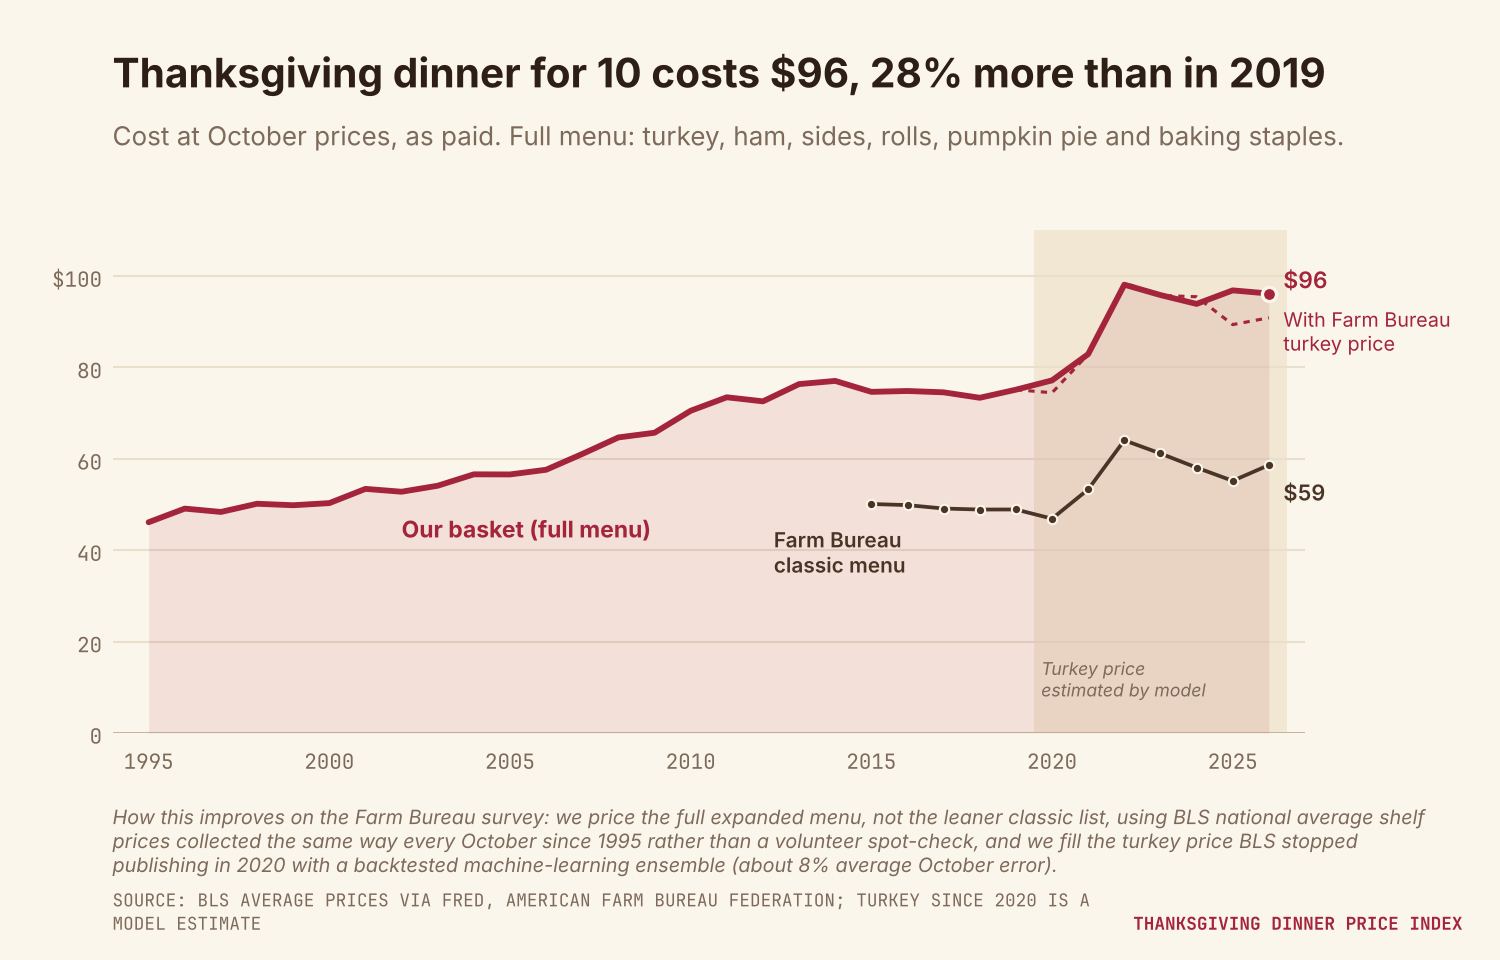
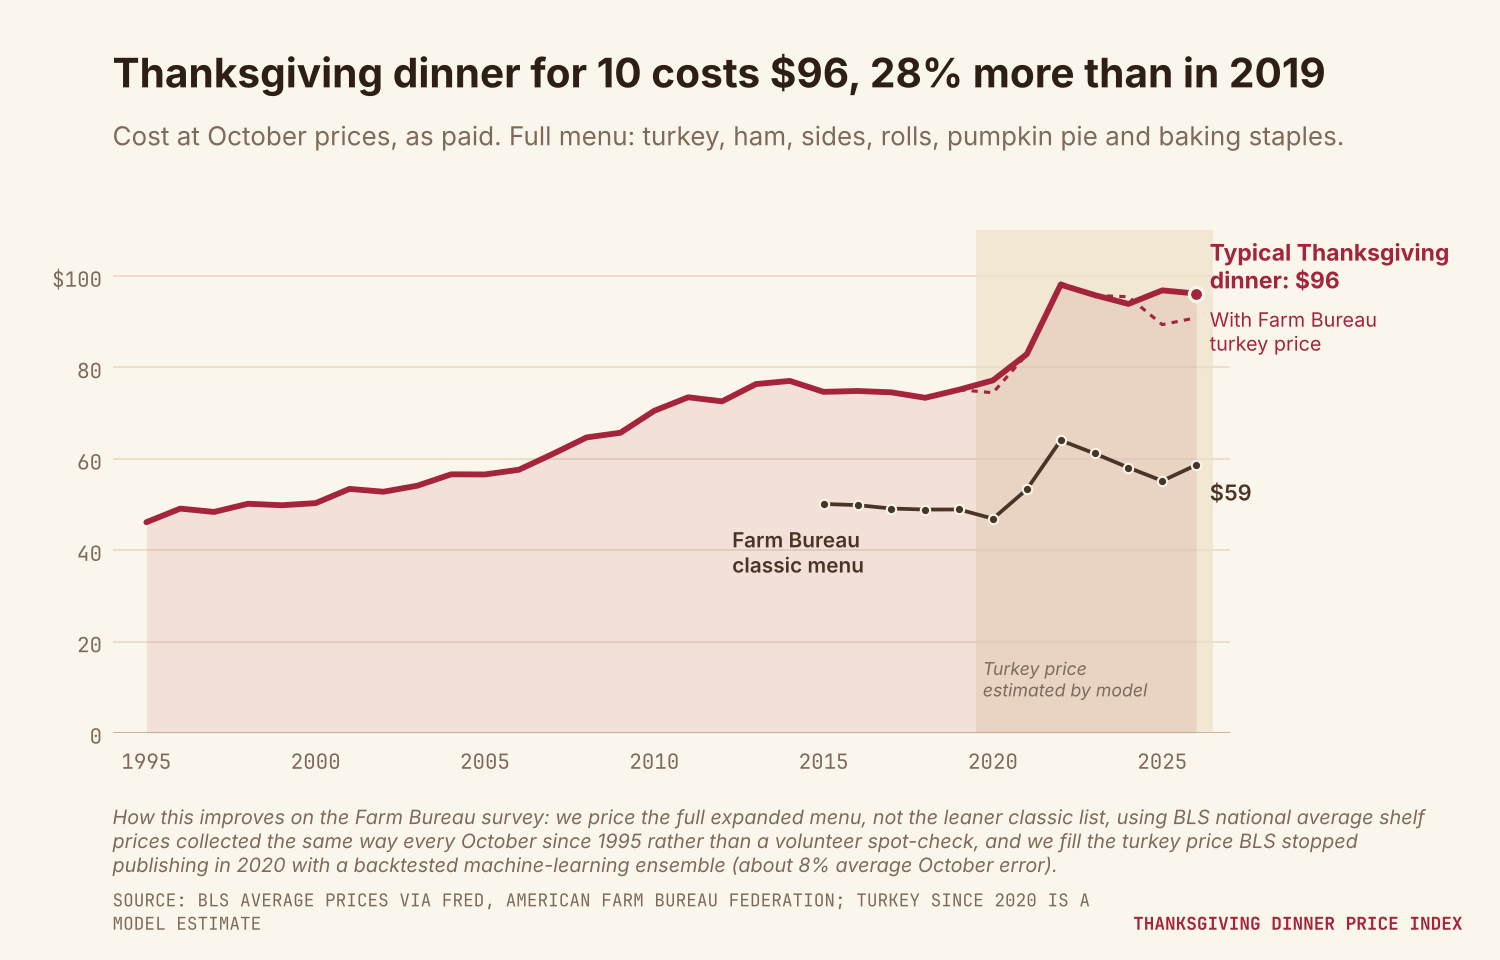
Chart 1: label the line 'Typical Thanksgiving dinner' at its right end
Claude-Session: https://claude.ai/code/session_015UrztArHpAPPRd1ooHHwA1

diff --git a/build_index.py b/build_index.py
@@ -207,6 +207,7 @@ SRC_BLS = "BLS average prices via FRED, American Farm Bureau Federation"
 # 1. Cost as paid, with the Farm Bureau benchmark (comparison with overall prices is chart 2)
 FLOOR = 0
 fig, ax = cs.figure()
+fig.subplots_adjust(right=0.82)
 ax.axvspan(2019.5, latest + 0.5, color=cs.SHADE, zorder=0, lw=0)
 ax.text(2019.7, 8, "Turkey price\nestimated by model", fontsize=8.5, color=cs.MUTED, style="italic")
 ax.set_ylim(FLOOR, 110)
@@ -217,9 +218,8 @@ ax.plot(total_afbf.loc[2019:].index, total_afbf.loc[2019:], color=cs.RED, lw=1.5
 ax.plot(afbf.index, afbf, color=cs.DARK, lw=1.8, marker="o", ms=4.5, markeredgecolor=cs.BG)
 ax.set_xlim(1994, latest + 1)
 cs.baseline(ax, FLOOR)
-ax.text(2002, total[2002] - 10, "Our basket (full menu)", color=cs.RED, fontsize=11, fontweight="bold")
 ax.text(2012.3, afbf[2015] - 15, "Farm Bureau\nclassic menu", color=cs.DARK, fontsize=10, fontweight="semibold")
-cs.label_end(ax, latest, total[latest], f"${total[latest]:.0f}", cs.RED, dy=3, size=11, dot=False)
+cs.label_end(ax, latest, total[latest], f"Typical Thanksgiving\ndinner: ${total[latest]:.0f}", cs.RED, dy=6, size=11, weight="bold", dot=False)
 cs.label_end(ax, latest, total_afbf[latest], "With Farm Bureau\nturkey price", cs.RED, dy=-3, weight="normal", size=9.5, dot=False)
 cs.label_end(ax, latest, afbf[latest], f"${afbf[latest]:.0f}", cs.DARK, dy=-6, dot=False)
 cs.unit_on_top(ax, prefix="$")
